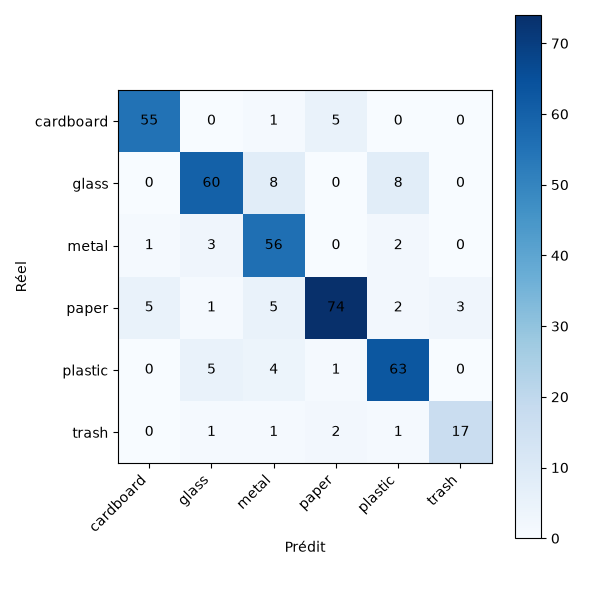
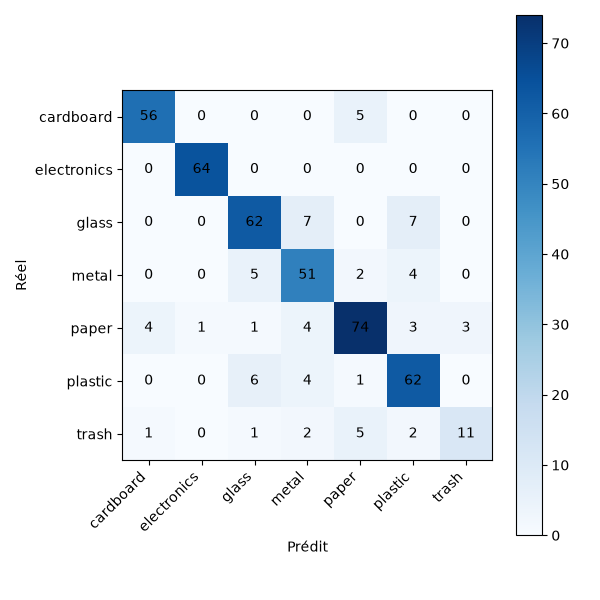
Reentrainer le modele avec la 7e classe electronics (D3E)

diff --git a/model/README.md b/model/README.md
@@ -54,11 +54,13 @@ Sur ce test précis, le modèle a répondu `metal` avec seulement 0.41 de confia
 
 La solution recommandée est la même que pour le D3E, et elle est implémentée dans la même fonction : `classify_before_image_model()` renvoie `"MARRON"` si le nom du produit correspond à `config.VAISSELLE_KEYWORDS` ("verre à boire", "gobelet", "vaisselle"...). Le D3E et la vaisselle sont donc deux illustrations du même principe, gérées par le même mécanisme : le modèle d'image couvre bien les catégories représentées dans le dataset Kaggle, mais toute catégorie absente doit être filtrée avant lui, pas après.
 
-## Résultats obtenus sur le premier modèle entraîné
+## Résultats obtenus
 
-Le premier entraînement complet atteint 85% de précision sur le jeu de test (six classes). Le détail par classe montre un modèle solide sur `cardboard` et `paper` (autour de 0.90 de précision), un peu plus fragile sur `metal` (précision de 0.75, confondu par moments avec `plastic`) et sur `trash` (rappel de 0.77, classe la plus petite et la plus hétérogène visuellement). La matrice de confusion complète est disponible dans `models/matrice_confusion.png`.
+Le premier entraînement à six classes atteignait 85% de précision sur le jeu de test. Le détail par classe montrait un modèle solide sur `cardboard` et `paper` (autour de 0.90 de précision), un peu plus fragile sur `metal` (précision de 0.75, confondu par moments avec `plastic`) et sur `trash` (rappel de 0.77, classe la plus petite et la plus hétérogène visuellement).
 
-Des tests manuels sur de vraies photos Jumia confirment ce diagnostic : une canette a été classée `plastic` au lieu de `metal`, sans conséquence pratique puisque les deux sont mappées vers la même poubelle JAUNE dans `config.py`. Ce regroupement en 5 catégories officielles absorbe une partie des erreurs fines du modèle à 6 classes.
+Après l'ajout de la septième classe `electronics` (voir section suivante), la précision globale reste à 85%, mais avec un résultat notable : `electronics` obtient 0.98 de précision et 1.00 de rappel, la classe la mieux reconnue de tout le modèle, ce qui confirme que les appareils électroniques ont une apparence suffisamment distincte des six autres matières pour être appris facilement. Le rappel de `trash` a en revanche baissé à 0.50 sur ce second entraînement, à surveiller mais probablement de la variance normale étant donné le très petit nombre d'exemples de test pour cette classe (22 images). La matrice de confusion à jour est disponible dans `models/matrice_confusion.png`.
+
+Des tests manuels sur de vraies photos Jumia confirment le diagnostic sur les matières de base : une canette a été classée `plastic` au lieu de `metal`, sans conséquence pratique puisque les deux sont mappées vers la même poubelle JAUNE dans `config.py`. Ce regroupement en 5 catégories officielles absorbe une partie des erreurs fines du modèle. Sur le D3E, un casque audio et une bouilloire, qui ressortaient auparavant en `INCERTAIN` faute de classe électronique, sont désormais correctement reconnus via l'application.
 
 ## Adaptation aux photos de catalogue (Jumia, Amazon...)
 